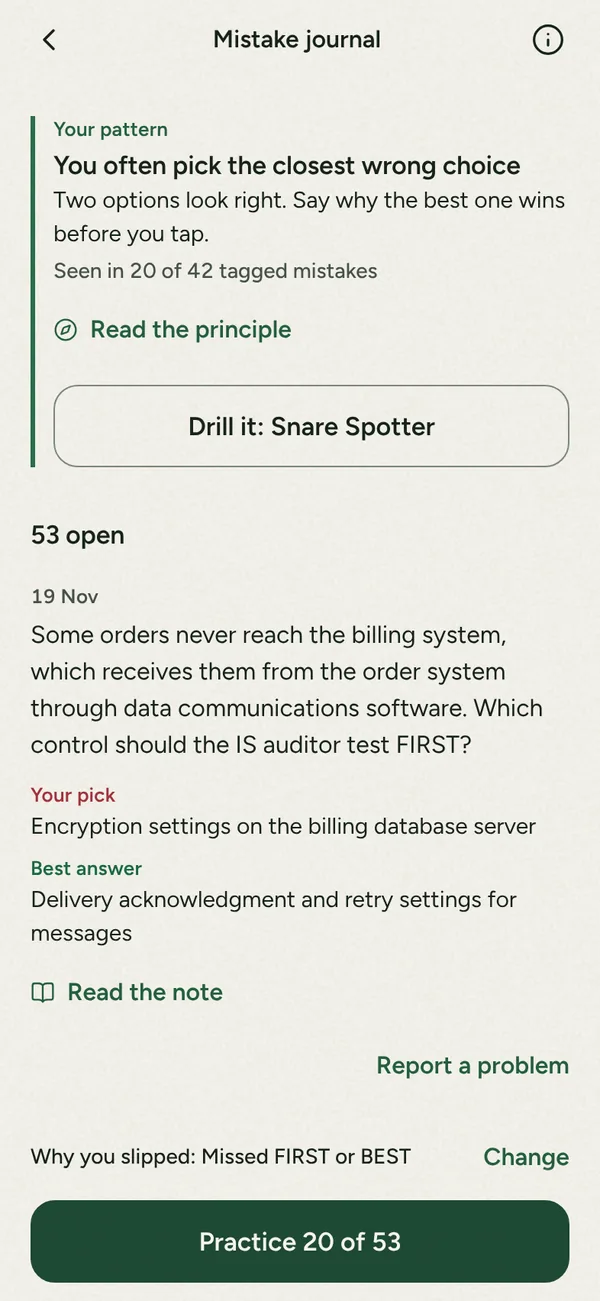
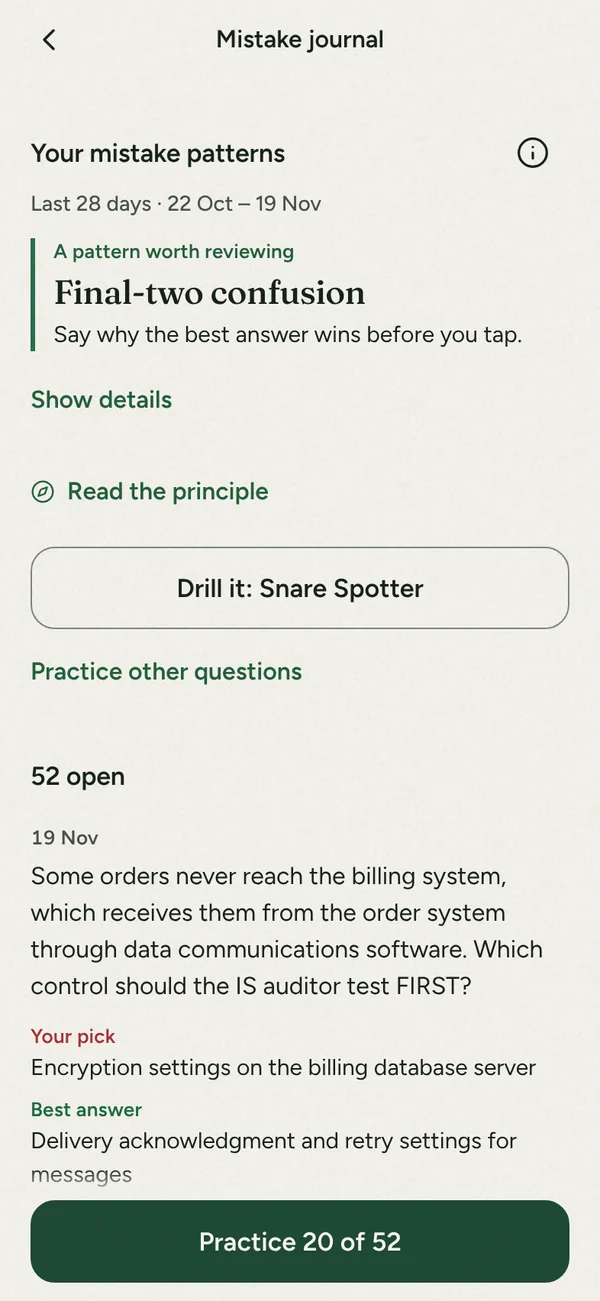
Home page: the Mistake journal picture shows the 2.2 journal (mistake patterns)
Claude-Session: https://claude.ai/code/session_01KmT18u5jNhAWY2uPFDZgi8

diff --git a/home.html b/home.html
@@ -48,7 +48,7 @@
 <div class="panels">
 <div class="panel panel-forest"><p class="panel-tag">Start with a plan</p><p class="panel-title">Your next step, already in view.</p><div class="phone"><img src="assets/home/today.webp" width="600" height="1301" alt="KaiSip Android Today screen with a daily study plan" fetchpriority="high"></div></div>
 <div class="panel panel-soft i1"><p class="panel-tag">Understand the why</p><p class="panel-title">The best answer has a reason.</p><div class="phone i1"><img src="assets/home/answer.webp" width="600" height="1301" alt="KaiSip Android answer review screen explaining the best answer"></div></div>
-<div class="panel panel-sap i2"><p class="panel-tag">Learn from misses</p><p class="panel-title">Mistakes, turned into progress.</p><div class="phone i2"><img src="assets/home/journal.webp" width="600" height="1301" alt="KaiSip Android Mistake journal listing missed questions to revisit"></div></div>
+<div class="panel panel-sap i2"><p class="panel-tag">Learn from misses</p><p class="panel-title">Mistakes, turned into progress.</p><div class="phone i2"><img src="assets/home/journal.webp" width="600" height="1301" alt="KaiSip Android Mistake journal showing a mistake pattern and missed questions to revisit"></div></div>
 </div>
 <p class="caption panels-note">Actual Android app screens · illustrative study data</p></section>
 <section class="facts" aria-label="What KaiSip covers"><ul class="wrap"><li><svg viewBox="0 0 24 24" fill="none" stroke="currentColor" stroke-width="1.6" stroke-linecap="round" stroke-linejoin="round" aria-hidden="true"><path d="M5 19c0-8 5-13 14-14 0 9-5 14-14 14Z"/><path d="M5 19 14 10"/></svg><span>CISA practice across all 5 domains</span></li><li><svg viewBox="0 0 24 24" fill="none" stroke="currentColor" stroke-width="1.6" stroke-linecap="round" stroke-linejoin="round" aria-hidden="true"><path d="M5 19c0-8 5-13 14-14 0 9-5 14-14 14Z"/><path d="M5 19 14 10"/></svg><span>The reasoning behind every best answer</span></li><li><svg viewBox="0 0 24 24" fill="none" stroke="currentColor" stroke-width="1.6" stroke-linecap="round" stroke-linejoin="round" aria-hidden="true"><path d="M5 19c0-8 5-13 14-14 0 9-5 14-14 14Z"/><path d="M5 19 14 10"/></svg><span>Study notes and short lessons</span></li><li><svg viewBox="0 0 24 24" fill="none" stroke="currentColor" stroke-width="1.6" stroke-linecap="round" stroke-linejoin="round" aria-hidden="true"><path d="M5 19c0-8 5-13 14-14 0 9-5 14-14 14Z"/><path d="M5 19 14 10"/></svg><span>A mistake journal to revisit what you missed</span></li></ul></section>
@@ -60,7 +60,7 @@
 <li class="step"><div class="step-copy"><span class="step-num">02 / Practice</span><h3>Questions that ask for judgment</h3><p>Work through scenario-based questions that ask what an auditor should do first. Stuck? Tap Coach me for a hint before you answer.</p></div><figure class="step-shot phone"><img src="assets/home/question.webp" width="600" height="1301" alt="KaiSip Android practice question with four answer options" loading="lazy" decoding="async"></figure></li>
 <li class="step"><div class="step-copy"><span class="step-num">03 / Answer review</span><h3>See why the tempting answer is wrong</h3><p>Learn why the best answer wins, where the trap lies, and which auditor principle to carry into the next question.</p></div><figure class="step-shot phone"><img src="assets/home/answer.webp" width="600" height="1301" alt="KaiSip Android answer review showing the best answer and key idea" loading="lazy" decoding="async"></figure></li>
 <li class="step"><div class="step-copy"><span class="step-num">04 / Learn</span><h3>Make it click</h3><p>Short lessons and study notes explain each idea in plain language, one screen at a time.</p></div><figure class="step-shot phone"><img src="assets/home/lesson.webp" width="600" height="1301" alt="KaiSip Android lesson screen explaining what an audit charter does" loading="lazy" decoding="async"></figure></li>
-<li class="step"><div class="step-copy"><span class="step-num">05 / Mistake journal</span><h3>Turn misses into progress</h3><p>Every question you miss is kept in your Mistake journal with its explanation, ready to revisit when you are.</p></div><figure class="step-shot phone"><img src="assets/home/journal.webp" width="600" height="1301" alt="KaiSip Android Mistake journal with missed questions and their explanations" loading="lazy" decoding="async"></figure></li>
+<li class="step"><div class="step-copy"><span class="step-num">05 / Mistake journal</span><h3>Turn misses into progress</h3><p>Every question you miss is kept in your Mistake journal with its explanation, ready to revisit when you are.</p></div><figure class="step-shot phone"><img src="assets/home/journal.webp" width="600" height="1301" alt="KaiSip Android Mistake journal with a mistake pattern, missed questions and their best answers" loading="lazy" decoding="async"></figure></li>
 </ol></div>
 <div class="story-cta reveal"><p>Want to study this way?</p><a class="button" href="#waitlist">Join the waitlist <span class="arrow" aria-hidden="true">↓</span></a></div>
 </section>
